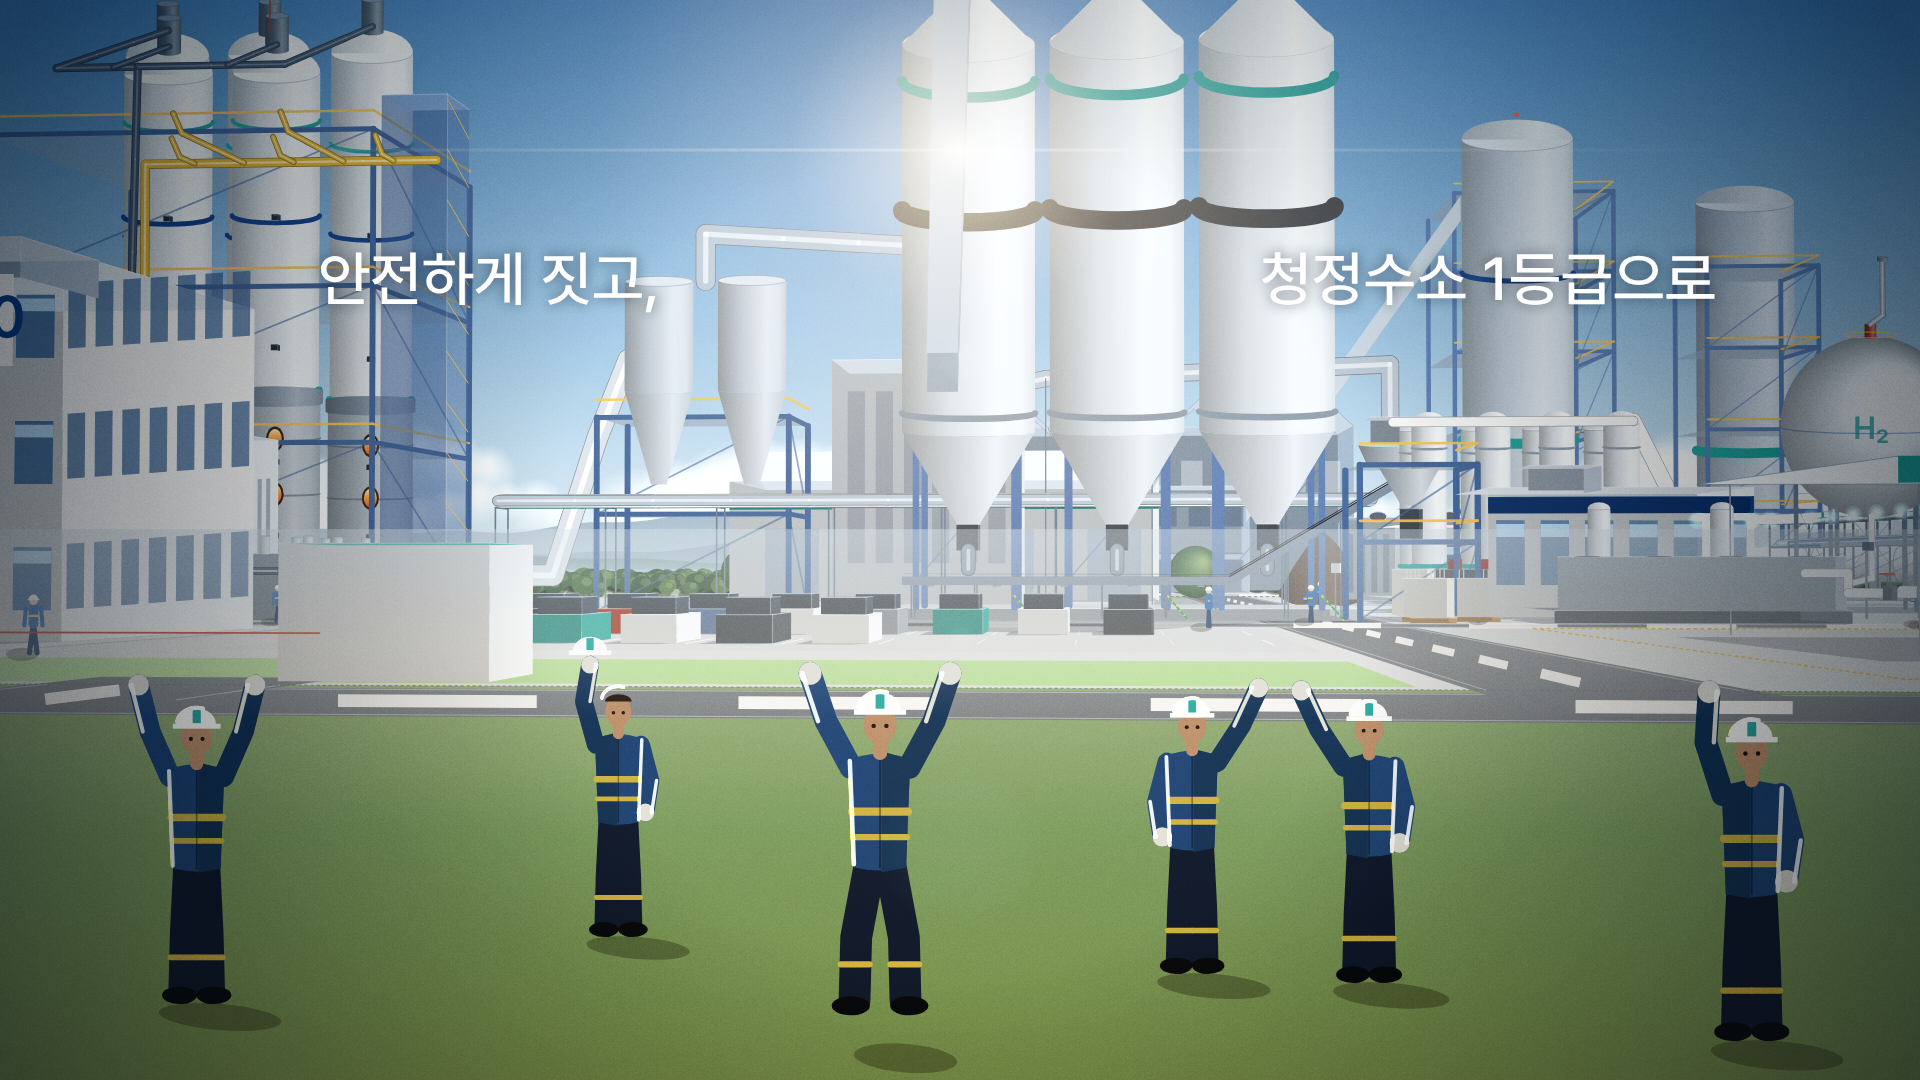
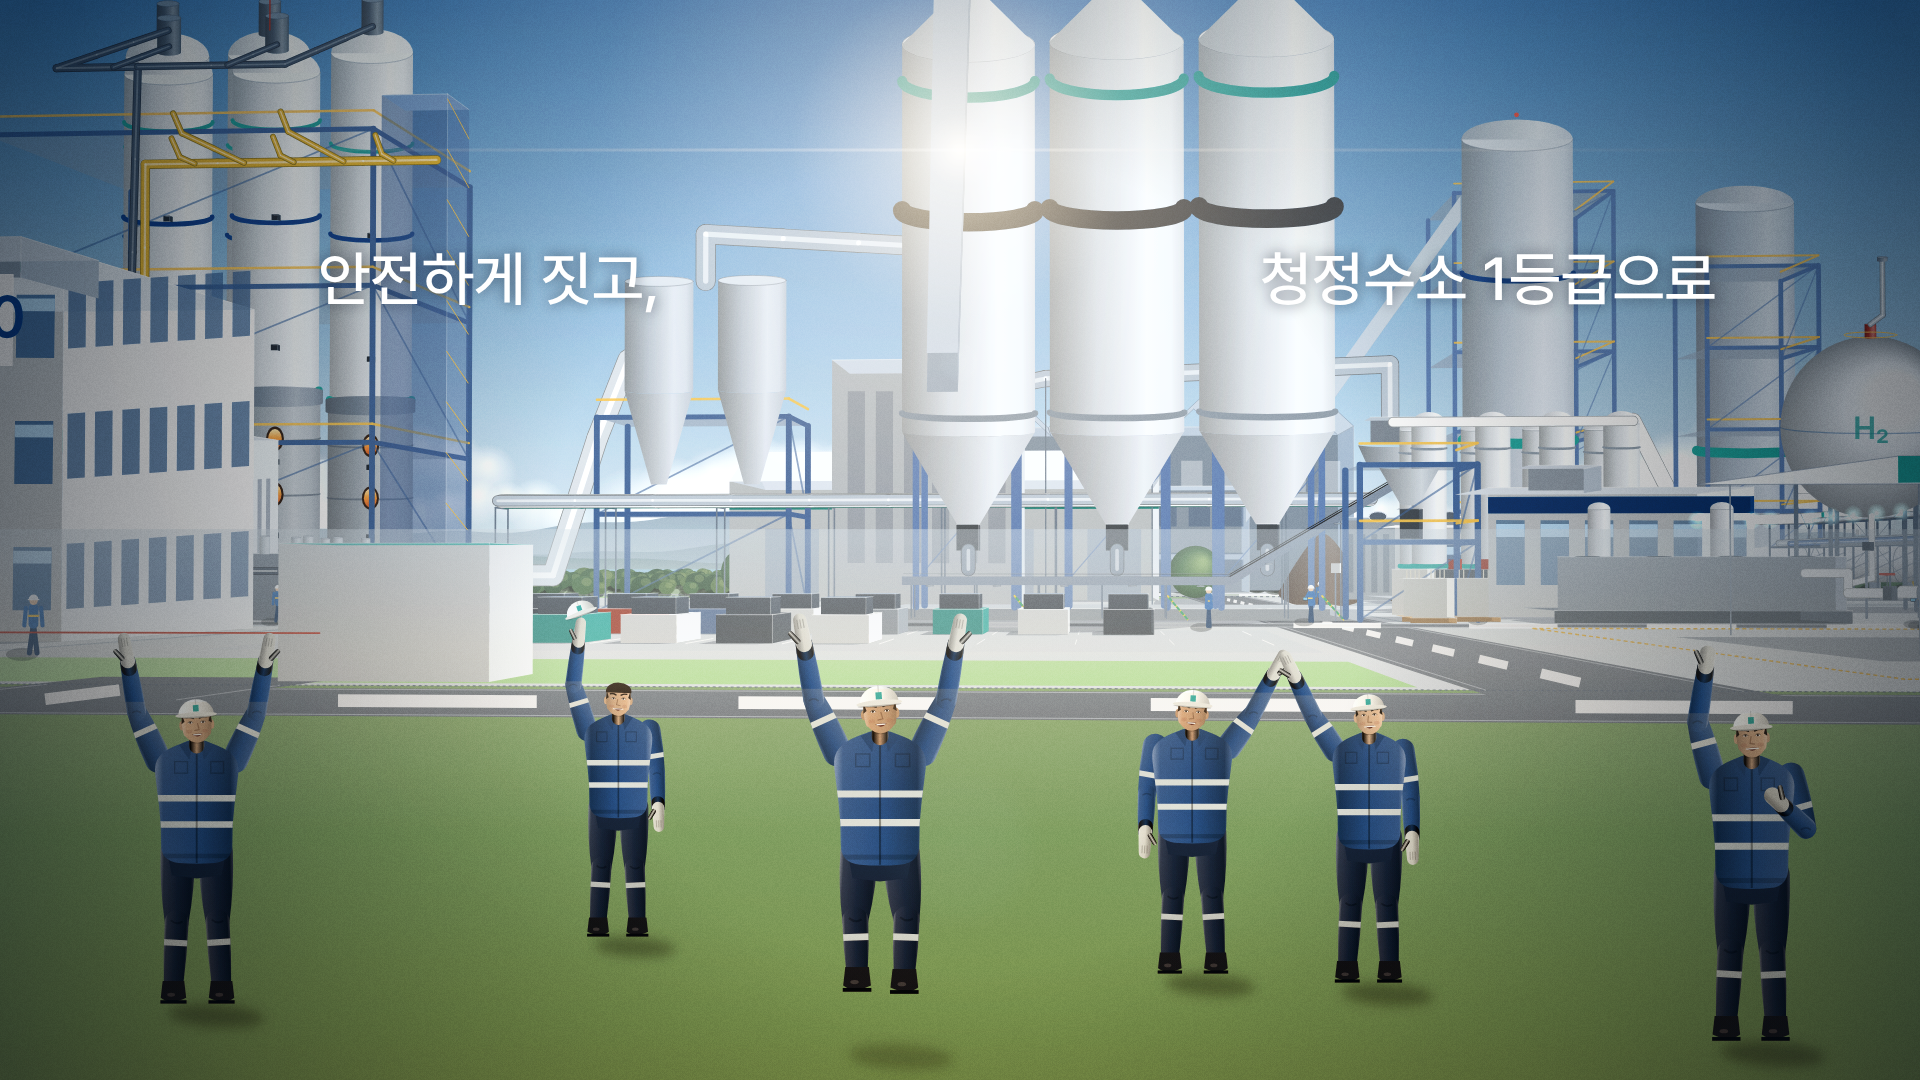
Redraw plate 09 workers as semi-realistic figures
Replaces the stick-like crew with anatomically proportioned figures
(about 7.6 heads tall): tapered, shaded limbs for sleeves and work
trousers, a fuller jacket with trapezius slope, raised collar, zip,
pockets and reflective bands, gloves with thumbs, proper safety boots,
and faces with ears, brows, eyes, nose and an open smile under the
helmet. Upper arms sit behind the jacket body and forearms in front,
so shoulders join cleanly. Each figure is drawn on its own layer and
graded for the backlight, with varied skin tones and builds.

Claude-Session: https://claude.ai/code/session_014isZxqUwGxKLbYEc2hccQ6

diff --git a/plates/plate09a_celebration.html b/plates/plate09a_celebration.html
@@ -1050,44 +1050,144 @@ tree = (orig => function (x, y, s, seed) { if (toCam(x, y, 0)[2] < 95) return; o
 window.SUNXY = [960, 150];
 
 // stylised worker drawn in screen space at a world foot position (backlit: darker body, warm rim light)
-function crewman(x, y, pose, ph = 0, flip = 1) {
-  const f = P(x, y, 0), u = S(x, y, 1) * 1.75 / 10;               // u = 1/10 of body height in px
-  const jump = pose === 'jump' ? .9 : 0;
-  const X = dx => f[0] + dx * u * flip, Y = dy => f[1] - (dy + jump) * u;
-  const NAVY = '#16233A', JACK = '#21497F', JACKD = '#183960', BAND = '#C9AE45', SKIN = '#B98E6E', GLOVE = '#D9D7D0';
-  g.save();
-  g.fillStyle = 'rgba(20,30,20,.32)'; g.beginPath(); g.ellipse(f[0] + .8 * u, f[1] + .5 * u, 2.1 * u * (1 - jump * .25), .45 * u, .08, 0, 7); g.fill();
-  const limb = (pts, w, col) => { g.strokeStyle = col; g.lineWidth = w; g.lineCap = 'round'; g.lineJoin = 'round'; g.beginPath(); pts.forEach(([a, b], i) => i ? g.lineTo(X(a), Y(b)) : g.moveTo(X(a), Y(b))); g.stroke(); };
-  // legs (slightly apart; wider when jumping), boots, thin reflective bands
-  const sp = pose === 'jump' ? .75 : .42;
-  limb([[-.3, 4.8], [-sp, 2.4], [-sp - .05, .45]], 1.0 * u, NAVY); limb([[.3, 4.8], [sp, 2.4], [sp + .05, .45]], 1.0 * u, NAVY);
-  [-sp - .03, sp + .03].forEach(a => limb([[a - .45, 1.55], [a + .45, 1.55]], .2 * u, BAND));
-  g.fillStyle = '#121418'; [-sp - .05, sp + .05].forEach(a => { g.beginPath(); g.ellipse(X(a + .12 * Math.sign(a || 1)), Y(.25), .6 * u, .3 * u, 0, 0, 7); g.fill(); });
-  // jacket: tapered torso, darker shaded half, two reflective bands
-  g.fillStyle = JACK; g.beginPath(); g.moveTo(X(-.95), Y(8.0)); g.quadraticCurveTo(X(0), Y(8.35), X(.95), Y(8.0)); g.lineTo(X(.82), Y(4.6)); g.quadraticCurveTo(X(0), Y(4.4), X(-.82), Y(4.6)); g.closePath(); g.fill();
-  g.fillStyle = JACKD; g.beginPath(); g.moveTo(X(.05), Y(8.25)); g.lineTo(X(.95), Y(8.0)); g.lineTo(X(.82), Y(4.6)); g.lineTo(X(.05), Y(4.45)); g.closePath(); g.fill();
-  limb([[-.88, 6.35], [.88, 6.35]], .26 * u, BAND); limb([[-.85, 5.55], [.85, 5.55]], .2 * u, BAND);
-  limb([[0, 8.2], [0, 4.6]], .06 * u, 'rgba(0,0,0,.35)');          // zip
-  // arms by pose
-  const sh = [[-.92, 7.75], [.92, 7.75]];
-  const A = { cheer:[[[-1.6, 9.3], [-2.0, 10.9]], [[1.6, 9.3], [2.0, 10.9]]], jump:[[[-1.7, 9.2], [-2.2, 10.7]], [[1.7, 9.2], [2.2, 10.7]]],
-    fist:[[[-1.3, 6.3], [-1.1, 5.0]], [[1.45, 9.4], [1.35, 11.0]]], helmet:[[[-1.3, 6.3], [-1.1, 5.0]], [[1.4, 9.5], [1.15, 11.0]]],
-    five:[[[-1.3, 6.3], [-1.1, 5.0]], [[1.8, 9.1], [2.45, 10.5]]], stand:[[[-1.2, 6.1], [-1.15, 4.7]], [[1.2, 6.1], [1.15, 4.7]]] }[pose];
-  A.forEach((a, i) => { limb([sh[i], a[0], a[1]], .72 * u, i ? JACKD : JACK); g.fillStyle = GLOVE; g.beginPath(); g.arc(X(a[1][0]), Y(a[1][1]), .36 * u, 0, 7); g.fill(); });
-  // neck, head, dot eyes, helmet (or helmet held up in one hand)
-  limb([[0, 8.2], [0, 8.6]], .45 * u, SKIN);
-  g.fillStyle = SKIN; g.beginPath(); g.ellipse(X(0), Y(9.1), .52 * u, .62 * u, 0, 0, 7); g.fill();
-  g.fillStyle = '#2A1E16'; [-.2, .2].forEach(e => { g.beginPath(); g.arc(X(e), Y(9.05), .07 * u, 0, 7); g.fill(); });
-  const helmet = (cx, cy, s = 1) => { g.fillStyle = '#F4F4F0'; g.beginPath(); g.ellipse(X(cx), Y(cy), .66 * u * s, .55 * u * s, 0, Math.PI, 0); g.fill();
-    g.fillRect(X(cx) - .82 * u * s, Y(cy) - .02 * u, 1.64 * u * s, .17 * u * s); g.fillStyle = 'rgba(27,163,156,.95)'; g.fillRect(X(cx) - .14 * u * s, Y(cy + .5 * s), .28 * u * s, .46 * u * s); };
-  if (pose === 'helmet') { g.fillStyle = '#2B2019'; g.beginPath(); g.ellipse(X(0), Y(9.5), .54 * u, .3 * u, 0, Math.PI, 0); g.fill(); helmet(1.15, 11.55, 1.05); }
-  else helmet(0, 9.55);
-  // warm rim light on the sun side (sun is behind the crew)
-  g.globalCompositeOperation = 'lighter'; g.strokeStyle = 'rgba(255,214,150,.75)'; g.lineWidth = .14 * u; g.lineCap = 'round';
-  g.beginPath(); g.moveTo(X(-.95), Y(7.95)); g.lineTo(X(-.82), Y(4.7)); g.stroke();
-  g.beginPath(); g.ellipse(X(0), Y(9.55), .68 * u, .57 * u, 0, Math.PI * 1.05, Math.PI * 1.6); g.stroke();
-  A.forEach(a => { g.beginPath(); g.moveTo(X(a[0][0] - .25), Y(a[0][1])); g.lineTo(X(a[1][0] - .25), Y(a[1][1])); g.stroke(); });
+/* ---------- semi-realistic worker figure (front view, backlit) ----------
+   units: 1 = one head height; figure is ~7.6 heads tall. Drawn into its own layer, then graded. */
+const LOOKS = [
+  { skin:'#E0B48E', hair:'#1E1612', build:1.00 }, { skin:'#D4A27C', hair:'#2A1D15', build:1.07 }, { skin:'#E6BC98', hair:'#15100D', build:.96 },
+  { skin:'#D8AA84', hair:'#231912', build:1.04 }, { skin:'#DDB08B', hair:'#18120E', build:.98 }, { skin:'#CF9F78', hair:'#2B2018', build:1.05 } ];
+function poseJoints(pose) {
+  const J = { sL:[-.96, 6.3], sR:[.96, 6.3], hL:[-.47, 3.92], hR:[.47, 3.92], kL:[-.5, 2.08], kR:[.52, 2.1], aL:[-.58, .42], aR:[.62, .42],
+    eL:[-1.18, 4.98], wL:[-1.22, 3.92], eR:[1.18, 4.98], wR:[1.22, 3.92], tilt:0, handL:'open', handR:'open' };
+  const up = (s) => { J['e' + s] = [s === 'L' ? -1.5 : 1.5, 7.55]; J['w' + s] = [s === 'L' ? -1.72 : 1.72, 8.86]; };
+  if (pose === 'cheer') { up('L'); up('R'); J.tilt = -.06; }
+  if (pose === 'jump') { up('L'); up('R'); J.kL = [-.56, 2.3]; J.kR = [.6, 2.32]; J.aL = [-.52, 1.05]; J.aR = [.55, 1.0]; J.tilt = -.08; }
+  if (pose === 'fist') { J.eR = [1.32, 7.6]; J.wR = [1.12, 8.92]; J.handR = 'fist'; J.eL = [-1.32, 5.05]; J.wL = [-.72, 5.62]; J.handL = 'fist'; J.tilt = .05; }
+  if (pose === 'helmet') { J.eR = [1.38, 7.7]; J.wR = [1.22, 9.02]; J.handR = 'grip'; J.tilt = -.04; }
+  if (pose === 'five') { J.eR = [1.6, 7.25]; J.wR = [2.12, 8.32]; J.tilt = .07; }
+  return J;
+}
+function hseg(A, B, ra, rb, base, bulge = 0) {                 // tapered, slightly muscled capsule, shaded across its width
+  const dx = B[0] - A[0], dy = B[1] - A[1], L = Math.hypot(dx, dy) || 1, nx = -dy / L, ny = dx / L, an = Math.atan2(dy, dx);
+  const M = [(A[0] + B[0]) / 2, (A[1] + B[1]) / 2], rm = (ra + rb) / 2 * (1 + bulge), c = 2 * rm - (ra + rb) / 2;
+  g.beginPath(); g.moveTo(A[0] + nx * ra, A[1] + ny * ra);
+  g.quadraticCurveTo(M[0] + nx * c, M[1] + ny * c, B[0] + nx * rb, B[1] + ny * rb);
+  g.arc(B[0], B[1], rb, an + Math.PI / 2, an - Math.PI / 2, true);
+  g.quadraticCurveTo(M[0] - nx * c, M[1] - ny * c, A[0] - nx * ra, A[1] - ny * ra);
+  g.arc(A[0], A[1], ra, an - Math.PI / 2, an + Math.PI / 2, true); g.closePath();
+  const R = Math.max(ra, rb) * 1.05, q = g.createLinearGradient(M[0] + nx * R, M[1] + ny * R, M[0] - nx * R, M[1] - ny * R);
+  q.addColorStop(0, shade(base, .5)); q.addColorStop(.12, shade(base, .1)); q.addColorStop(.5, base); q.addColorStop(.88, shade(base, -.3)); q.addColorStop(1, shade(base, .18));
+  g.fillStyle = q; g.fill();
+  return { A, B, nx, ny, ra, rb };
+}
+function bandOn(s, t, w, col) {                               // reflective band across a limb, clipped to it
+  g.save(); g.clip(); const x = s.A[0] + (s.B[0] - s.A[0]) * t, y = s.A[1] + (s.B[1] - s.A[1]) * t, r = Math.max(s.ra, s.rb) * 1.4;
+  g.strokeStyle = col; g.lineWidth = w; g.beginPath(); g.moveTo(x + s.nx * r, y + s.ny * r); g.lineTo(x - s.nx * r, y - s.ny * r); g.stroke(); g.restore();
+}
+function human(fx, fy, hu, pose, look, flip = 1) {
+  const lift = pose === 'jump' ? .6 : 0, bw = look.build;
+  const X = x => fx + x * hu * flip * bw, Y = y => fy - (y + lift) * hu, Q = p => [X(p[0]), Y(p[1])];
+  const J = poseJoints(pose);
+  const upperArms = () => { const ua = (sh, e) => { const u2 = hseg(Q(sh), Q(e), .33 * hu * bw, .25 * hu, '#24508C', .08); bandOn(u2, .6, .15 * hu, '#D9DCD6'); }; ua(J.sL, J.eL); ua(J.sR, J.eR); };
+  const JACK = '#24508C', PANT = '#1A2A44', REFL = '#D9DCD6', GLOVE = '#D6D2C6', BOOT = '#1C1E22';
+  // ---- legs (trousers) + boots
+  const leg = (h, k, a) => { const t = hseg(Q(h), Q(k), .45 * hu, .31 * hu, PANT, .1); const s = hseg(Q(k), Q(a), .31 * hu, .25 * hu, PANT, .06); bandOn(s, .32, .16 * hu, REFL);
+    g.strokeStyle = 'rgba(0,0,0,.25)'; g.lineWidth = .05 * hu; g.beginPath(); const kk = Q(k); g.moveTo(kk[0] - .15 * hu, kk[1] - .05 * hu); g.quadraticCurveTo(kk[0], kk[1] + .08 * hu, kk[0] + .15 * hu, kk[1] - .02 * hu); g.stroke(); };
+  leg(J.hL, J.kL, J.aL); leg(J.hR, J.kR, J.aR);
+  [J.aL, J.aR].forEach((a, i) => { const p = Q(a), s = i ? 1 : -1;
+    g.fillStyle = BOOT; g.beginPath(); g.moveTo(p[0] - .28 * hu, p[1] - .14 * hu); g.lineTo(p[0] + .28 * hu, p[1] - .14 * hu); g.lineTo(p[0] + .33 * hu, p[1] + .3 * hu);
+    g.quadraticCurveTo(p[0] + s * .08 * hu, p[1] + .5 * hu, p[0] - .33 * hu, p[1] + .3 * hu); g.closePath(); g.fill();
+    g.fillStyle = 'rgba(255,255,255,.18)'; g.beginPath(); g.ellipse(p[0] - .06 * hu, p[1] + .22 * hu, .1 * hu, .05 * hu, 0, 0, 7); g.fill();
+    g.fillStyle = '#0E0F11'; g.fillRect(p[0] - .34 * hu, p[1] + .36 * hu, .68 * hu, .09 * hu); });
+  // pelvis
+  g.fillStyle = PANT; g.beginPath(); [[-.76, 4.05], [.76, 4.05], [.62, 3.3], [0, 3.22], [-.62, 3.3]].forEach((p, i) => { const q = Q(p); i ? g.lineTo(q[0], q[1]) : g.moveTo(q[0], q[1]); }); g.closePath(); g.fill();
+  upperArms();
+  // ---- jacket torso
+  const T = [[-.24, 6.78], [-.78, 6.56], [-1.07, 6.22], [-1.0, 5.6], [-.88, 4.6], [-.9, 3.66], [0, 3.58], [.9, 3.66], [.88, 4.6], [1.0, 5.6], [1.07, 6.22], [.78, 6.56], [.24, 6.78]];
+  const torso = () => { g.beginPath(); T.forEach((p, i) => { const q = Q(p); if (!i) g.moveTo(q[0], q[1]); else { const pr = Q(T[i - 1]); g.quadraticCurveTo(pr[0], pr[1], (pr[0] + q[0]) / 2, (pr[1] + q[1]) / 2); } }); const e = Q(T[T.length - 1]); g.lineTo(e[0], e[1]); g.closePath(); };
+  torso(); { const l = Q([-1.05, 5]), r = Q([1.05, 5]), q = g.createLinearGradient(l[0], 0, r[0], 0);
+    q.addColorStop(0, shade(JACK, .45)); q.addColorStop(.1, shade(JACK, .08)); q.addColorStop(.55, JACK); q.addColorStop(.9, shade(JACK, -.32)); q.addColorStop(1, shade(JACK, .15)); g.fillStyle = q; g.fill(); }
+  g.save(); torso(); g.clip();
+  [[5.3, .17], [4.62, .17]].forEach(([y, w]) => { const a = Q([-1.2, y]), b = Q([1.2, y]); g.strokeStyle = REFL; g.lineWidth = w * hu; g.beginPath(); g.moveTo(a[0], a[1]); g.lineTo(b[0], b[1]); g.stroke(); });
+  const z0 = Q([0, 6.5]), z1 = Q([0, 3.62]); g.strokeStyle = 'rgba(0,0,0,.35)'; g.lineWidth = .05 * hu; g.beginPath(); g.moveTo(z0[0], z0[1]); g.lineTo(z1[0], z1[1]); g.stroke();
+  [[-.55, 5.95], [.35, 5.95]].forEach(p => { const q = Q(p); g.strokeStyle = 'rgba(0,0,0,.22)'; g.lineWidth = .035 * hu; g.strokeRect(Math.min(q[0], q[0] + .32 * hu * flip * bw), q[1] - .3 * hu, .32 * hu * bw, .3 * hu); });
+  g.fillStyle = 'rgba(0,0,0,.18)'; const hm = Q([-.84, 3.86]); g.fillRect(hm[0] - (flip < 0 ? 1.68 * hu * bw : 0), hm[1], 1.68 * hu * bw, .12 * hu);
   g.restore();
+  // collar
+  g.fillStyle = shade(JACK, -.15); [[-1, 1]].forEach(() => { [-1, 1].forEach(s => { const a = Q([s * .08, 6.84]), b = Q([s * .44, 6.68]), c = Q([s * .18, 6.3]); g.beginPath(); g.moveTo(a[0], a[1]); g.lineTo(b[0], b[1]); g.lineTo(c[0], c[1]); g.closePath(); g.fill(); }); });
+  // ---- neck + head
+  const head = () => {
+    const nk = hseg(Q([0, 6.66]), Q([0, 6.86]), .2 * hu, .19 * hu, shade(look.skin, -.06));
+    g.fillStyle = 'rgba(40,25,15,.35)'; const ch = Q([0, 6.78]); g.beginPath(); g.ellipse(ch[0], ch[1], .17 * hu, .06 * hu, 0, 0, 7); g.fill();
+    const c = Q([0, 7.24]);
+    g.save(); g.translate(c[0], c[1]); g.rotate(J.tilt * flip); g.translate(-c[0], -c[1]);
+    [-1, 1].forEach(s => { const e = Q([s * .37, 7.2]); g.fillStyle = shade(look.skin, -.08); g.beginPath(); g.ellipse(e[0], e[1], .07 * hu, .12 * hu, 0, 0, 7); g.fill(); });
+    // face shape: wider cranium, narrower jaw
+    g.beginPath(); const P0 = Q([0, 7.72]), Lt = Q([-.37, 7.35]), Lj = Q([-.3, 6.92]), Ch = Q([0, 6.74]), Rj = Q([.3, 6.92]), Rt = Q([.37, 7.35]);
+    g.moveTo(P0[0], P0[1]); g.quadraticCurveTo(Lt[0] - .02 * hu * flip, P0[1], Lt[0], Lt[1]); g.quadraticCurveTo(Lt[0], Lj[1], Lj[0], Lj[1]); g.quadraticCurveTo(Ch[0] - .17 * hu * flip, Ch[1], Ch[0], Ch[1]);
+    g.quadraticCurveTo(Ch[0] + .17 * hu * flip, Ch[1], Rj[0], Rj[1]); g.quadraticCurveTo(Rt[0], Rj[1], Rt[0], Rt[1]); g.quadraticCurveTo(Rt[0], P0[1], P0[0], P0[1]); g.closePath();
+    { const l = Q([-.4, 7.2]), r = Q([.4, 7.2]), q = g.createLinearGradient(l[0], 0, r[0], 0); q.addColorStop(0, shade(look.skin, .38)); q.addColorStop(.18, look.skin); q.addColorStop(.7, shade(look.skin, -.1)); q.addColorStop(1, shade(look.skin, -.28)); g.fillStyle = q; g.fill(); }
+    if (hu > 14) {
+      const F = (x, y) => Q([x, y]);
+      g.fillStyle = 'rgba(160,80,60,.18)'; [-1, 1].forEach(s => { const p = F(s * .2, 7.04); g.beginPath(); g.ellipse(p[0], p[1], .08 * hu, .05 * hu, 0, 0, 7); g.fill(); });
+      g.strokeStyle = look.hair; g.lineWidth = .045 * hu; g.lineCap = 'round';
+      [-1, 1].forEach(s => { const a = F(s * .08, 7.38), b = F(s * .25, 7.41); g.beginPath(); g.moveTo(a[0], a[1]); g.quadraticCurveTo((a[0] + b[0]) / 2, a[1] - .05 * hu, b[0], b[1]); g.stroke(); });
+      [-1, 1].forEach(s => { const e = F(s * .155, 7.27); g.fillStyle = '#F4EEE8'; g.beginPath(); g.ellipse(e[0], e[1], .06 * hu, .028 * hu, 0, 0, 7); g.fill();
+        g.fillStyle = '#2A1C14'; g.beginPath(); g.arc(e[0] + s * .005 * hu, e[1], .026 * hu, 0, 7); g.fill();
+        g.strokeStyle = 'rgba(40,25,15,.7)'; g.lineWidth = .02 * hu; g.beginPath(); g.ellipse(e[0], e[1] + .005 * hu, .065 * hu, .035 * hu, 0, Math.PI * 1.05, Math.PI * 1.95); g.stroke(); });
+      g.strokeStyle = 'rgba(90,50,30,.45)'; g.lineWidth = .03 * hu; { const a = F(.02, 7.24), b = F(.05, 7.08), c2 = F(-.06, 7.06); g.beginPath(); g.moveTo(a[0], a[1]); g.lineTo(b[0], b[1]); g.lineTo(c2[0], c2[1]); g.stroke(); }
+      // open smile
+      const m0 = F(-.13, 6.97), m1 = F(.13, 6.97), mb = F(0, 6.86);
+      g.fillStyle = '#5A2420'; g.beginPath(); g.moveTo(m0[0], m0[1]); g.quadraticCurveTo(mb[0], m0[1] - .015 * hu, m1[0], m1[1]); g.quadraticCurveTo(mb[0], mb[1] + .03 * hu, m0[0], m0[1]); g.fill();
+      g.fillStyle = '#F2EEE6'; g.beginPath(); g.moveTo(m0[0] + .02 * hu, m0[1] + .005 * hu); g.quadraticCurveTo(mb[0], m0[1] - .01 * hu, m1[0] - .02 * hu, m1[1] + .005 * hu); g.lineTo(m1[0] - .04 * hu, m1[1] + .035 * hu); g.lineTo(m0[0] + .04 * hu, m0[1] + .035 * hu); g.closePath(); g.fill();
+    }
+    // hair at the temples, helmet (or bare head when the helmet is held up)
+    g.fillStyle = look.hair; [-1, 1].forEach(s => { const a = Q([s * .36, 7.5]), b = Q([s * .38, 7.24]), c2 = Q([s * .3, 7.3]); g.beginPath(); g.moveTo(a[0], a[1]); g.lineTo(b[0], b[1]); g.lineTo(c2[0], c2[1]); g.closePath(); g.fill(); });
+    if (pose === 'helmet') { const t = Q([0, 7.5]); g.beginPath(); g.ellipse(t[0], t[1], .39 * hu * bw, .26 * hu, 0, Math.PI, 0); g.lineTo(t[0] + .39 * hu * bw, t[1] + .05 * hu); g.lineTo(t[0] - .39 * hu * bw, t[1] + .05 * hu); g.closePath(); g.fill(); }
+    else drawHelmet(Q([0, 7.47]), hu * bw, 0);
+    g.restore();
+  };
+  // ---- arms: upper arm drawn behind the jacket body, forearm + hand in front
+  const upper = (sh, e) => { const ua = hseg(Q(sh), Q(e), .33 * hu * bw, .25 * hu, JACK, .08); bandOn(ua, .6, .15 * hu, REFL); };
+  const lower = (s0, e, w, hand) => {
+    const el = Q(e), wr = Q(w);
+    hseg(el, wr, .25 * hu, .2 * hu, JACK, .05);
+    hseg([wr[0] - (wr[0] - el[0]) * .14, wr[1] - (wr[1] - el[1]) * .14], wr, .21 * hu, .2 * hu, shade(JACK, -.35));
+    g.strokeStyle = 'rgba(0,0,0,.22)'; g.lineWidth = .04 * hu; g.beginPath(); g.moveTo(el[0] - .12 * hu, el[1] + .04 * hu); g.quadraticCurveTo(el[0], el[1] - .06 * hu, el[0] + .12 * hu, el[1] + .04 * hu); g.stroke();
+    const dx = wr[0] - el[0], dy = wr[1] - el[1], L = Math.hypot(dx, dy), ux = dx / L, uy = dy / L;
+    const len = hand === 'fist' ? .3 : .58, tip = [wr[0] + ux * len * hu, wr[1] + uy * len * hu];
+    const side = (s0[0] < 0 ? -1 : 1) * flip, nx = -uy * side, ny = ux * side;
+    hseg(wr, tip, .19 * hu, hand === 'fist' ? .2 * hu : .16 * hu, GLOVE);
+    hseg([wr[0] + nx * .14 * hu + ux * .1 * hu, wr[1] + ny * .14 * hu + uy * .1 * hu], [wr[0] + nx * .27 * hu + ux * .3 * hu, wr[1] + ny * .27 * hu + uy * .3 * hu], .07 * hu, .06 * hu, shade(GLOVE, -.08));
+    if (hand === 'open') { g.strokeStyle = 'rgba(0,0,0,.22)'; g.lineWidth = .025 * hu; for (let k = -1; k <= 1; k++) { const a = [tip[0] - ux * .2 * hu + nx * k * .07 * hu, tip[1] - uy * .2 * hu + ny * k * .07 * hu]; g.beginPath(); g.moveTo(a[0], a[1]); g.lineTo(tip[0] + nx * k * .07 * hu + ux * .02 * hu, tip[1] + ny * k * .07 * hu + uy * .02 * hu); g.stroke(); } }
+    if (hand === 'grip') drawHelmet([tip[0] + ux * .05 * hu, tip[1] + uy * .3 * hu], hu * bw, .35 * flip);
+  };
+  head();
+  lower(J.sL, J.eL, J.wL, J.handL); lower(J.sR, J.eR, J.wR, J.handR);
+}
+function drawHelmet(c, hu, rot) {
+  g.save(); g.translate(c[0], c[1]); g.rotate(rot);
+  let q = g.createLinearGradient(-.45 * hu, 0, .45 * hu, 0); q.addColorStop(0, '#FFFFFF'); q.addColorStop(.6, '#ECECE8'); q.addColorStop(1, '#BDBDB8');
+  g.fillStyle = q; g.beginPath(); g.ellipse(0, 0, .44 * hu, .38 * hu, 0, Math.PI, 0); g.closePath(); g.fill();
+  g.strokeStyle = 'rgba(0,0,0,.12)'; g.lineWidth = .03 * hu; g.beginPath(); g.moveTo(0, -.38 * hu); g.lineTo(0, 0); g.stroke();
+  g.fillStyle = '#E2E2DD'; g.beginPath(); g.ellipse(0, .01 * hu, .52 * hu, .075 * hu, 0, 0, 7); g.fill();
+  g.fillStyle = 'rgba(0,0,0,.22)'; g.beginPath(); g.ellipse(0, .05 * hu, .5 * hu, .05 * hu, 0, 0, Math.PI); g.fill();
+  g.fillStyle = '#1BA39C'; g.fillRect(-.07 * hu, -.24 * hu, .14 * hu, .16 * hu);
+  g.restore();
+}
+function crewman(x, y, pose, i = 0, flip = 1) {
+  const f = P(x, y, 0), hu = S(x, y, 1) * 1.76 / 7.6, look = LOOKS[i % LOOKS.length];
+  // contact shadow cast toward the camera (sun behind the crew)
+  const lift = pose === 'jump' ? .6 : 0;
+  g.save(); g.filter = 'blur(6px)'; g.fillStyle = `rgba(15,25,15,${pose === 'jump' ? .25 : .38})`; g.beginPath(); g.ellipse(f[0] + .5 * hu, f[1] + .35 * hu, 1.25 * hu, .3 * hu, .06, 0, 7); g.fill(); g.restore();
+  // draw the person on its own layer so it can be graded as one object
+  const c = document.createElement('canvas'); c.width = g.canvas.width; c.height = g.canvas.height;
+  const pg = c.getContext('2d'); pg.setTransform(DPR, 0, 0, DPR, 0, 0);
+  const keep = g; g = pg; human(f[0], f[1], hu, pose, look, flip);
+  // backlight grade: warm top, cooler shadowed lower body
+  g.globalCompositeOperation = 'source-atop';
+  const top = f[1] - (7.8 + lift) * hu, q = g.createLinearGradient(0, top, 0, f[1]); q.addColorStop(0, 'rgba(255,214,160,.16)'); q.addColorStop(.5, 'rgba(0,0,0,0)'); q.addColorStop(1, 'rgba(10,20,35,.22)');
+  g.fillStyle = q; g.fillRect(f[0] - 4 * hu, top, 8 * hu, 8.5 * hu); g = keep;
+  g.save(); g.setTransform(1, 0, 0, 1, 0, 0); g.drawImage(c, 0, 0); g.restore();
 }
 const CREW = [[115.6, 176.5, 'cheer', 1], [117.6, 174.2, 'helmet', -1], [119.8, 177.2, 'jump', 1], [121.6, 175.2, 'five', 1], [122.7, 175.4, 'five', -1], [124.6, 176.8, 'fist', -1]];
 EXTRA_WORLD = () => {
